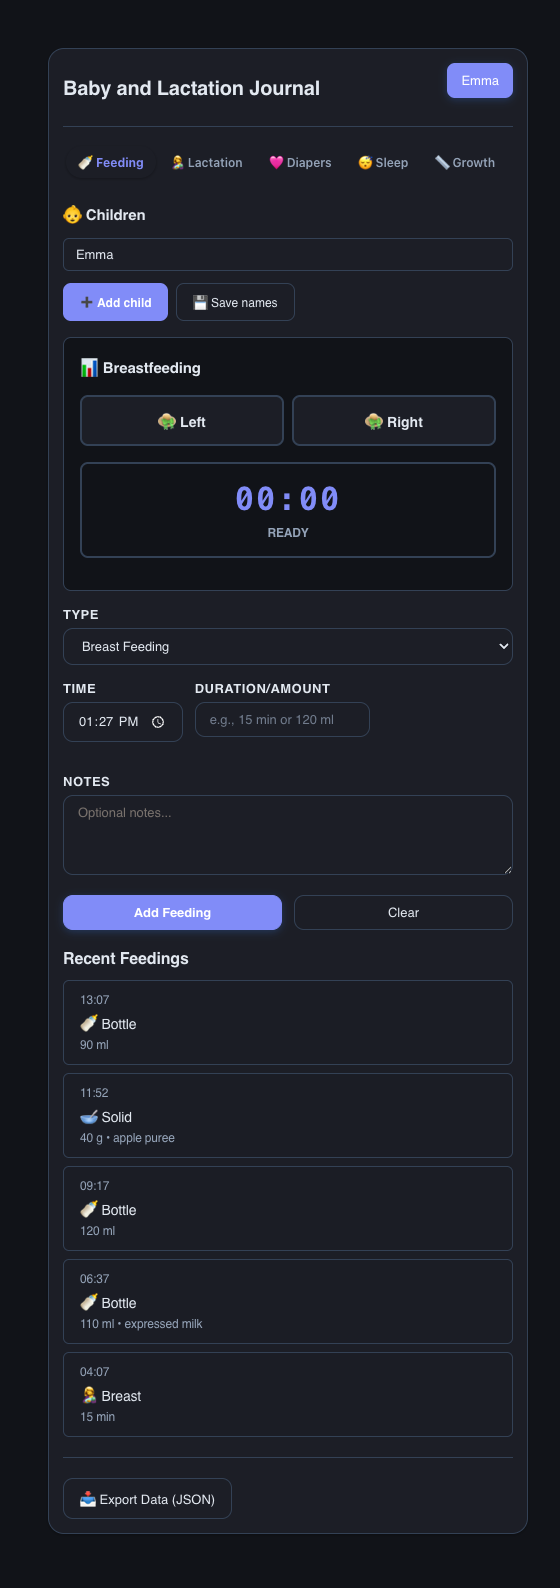
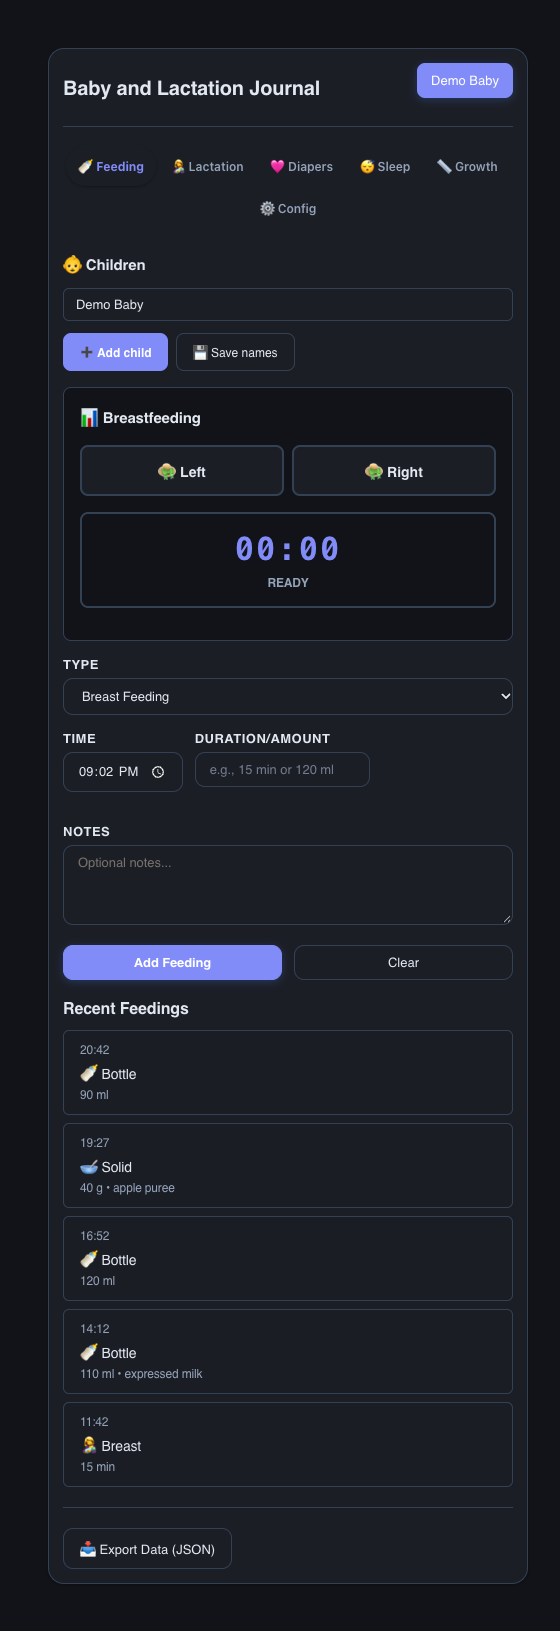
docs: refresh synthetic baby tracker screenshots

diff --git a/docs/screenshots/_harness.html b/docs/screenshots/_harness.html
@@ -17,7 +17,7 @@
 <script>
   try { localStorage.setItem('ha-intro-dismissed-ha-baby-tracker', '1'); } catch (e) {}
 </script>
-<script src="../../ha-baby-tracker.js"></script>
+<script src="../../custom_components/ha_baby_tracker/www/ha-baby-tracker.js"></script>
 <script>
 (function () {
   const params = new URLSearchParams(location.search);
@@ -61,7 +61,7 @@
     callWS: async (msg) => {
       const t = String(msg && msg.type || '');
       if (t === 'ha_baby_tracker/list_children') {
-        return { children: [{ name: 'Emma', entry_id: 'demo-entry', device_id: 'demo-device', date_of_birth: '2025-11-20' }] };
+        return { children: [{ name: 'Demo Baby', entry_id: 'demo-entry', device_id: 'demo-device', date_of_birth: '2025-11-20' }] };
       }
       if (t === 'ha_baby_tracker/get_data') {
         return { category: msg.category, data: byCat[msg.category] || [], running_timers: null };

diff --git a/README.md b/README.md
@@ -36,7 +36,8 @@ Part of the [HA Tools](https://github.com/MacSiem) ecosystem.
 |---|---|
 | ![Feeding tab, light theme](docs/screenshots/card-feeding-light.png) | ![Feeding tab, dark theme](docs/screenshots/card-feeding-dark.png) |
 
-*The Feeding tab: breastfeeding timer, quick entry form and recent feedings.
+*The Feeding tab with synthetic Demo Baby entries: breastfeeding timer, quick
+entry form and recent feedings. No household data appears in these images.
 Dark mode follows your Home Assistant theme automatically.*
 
 ## What changed in v5
